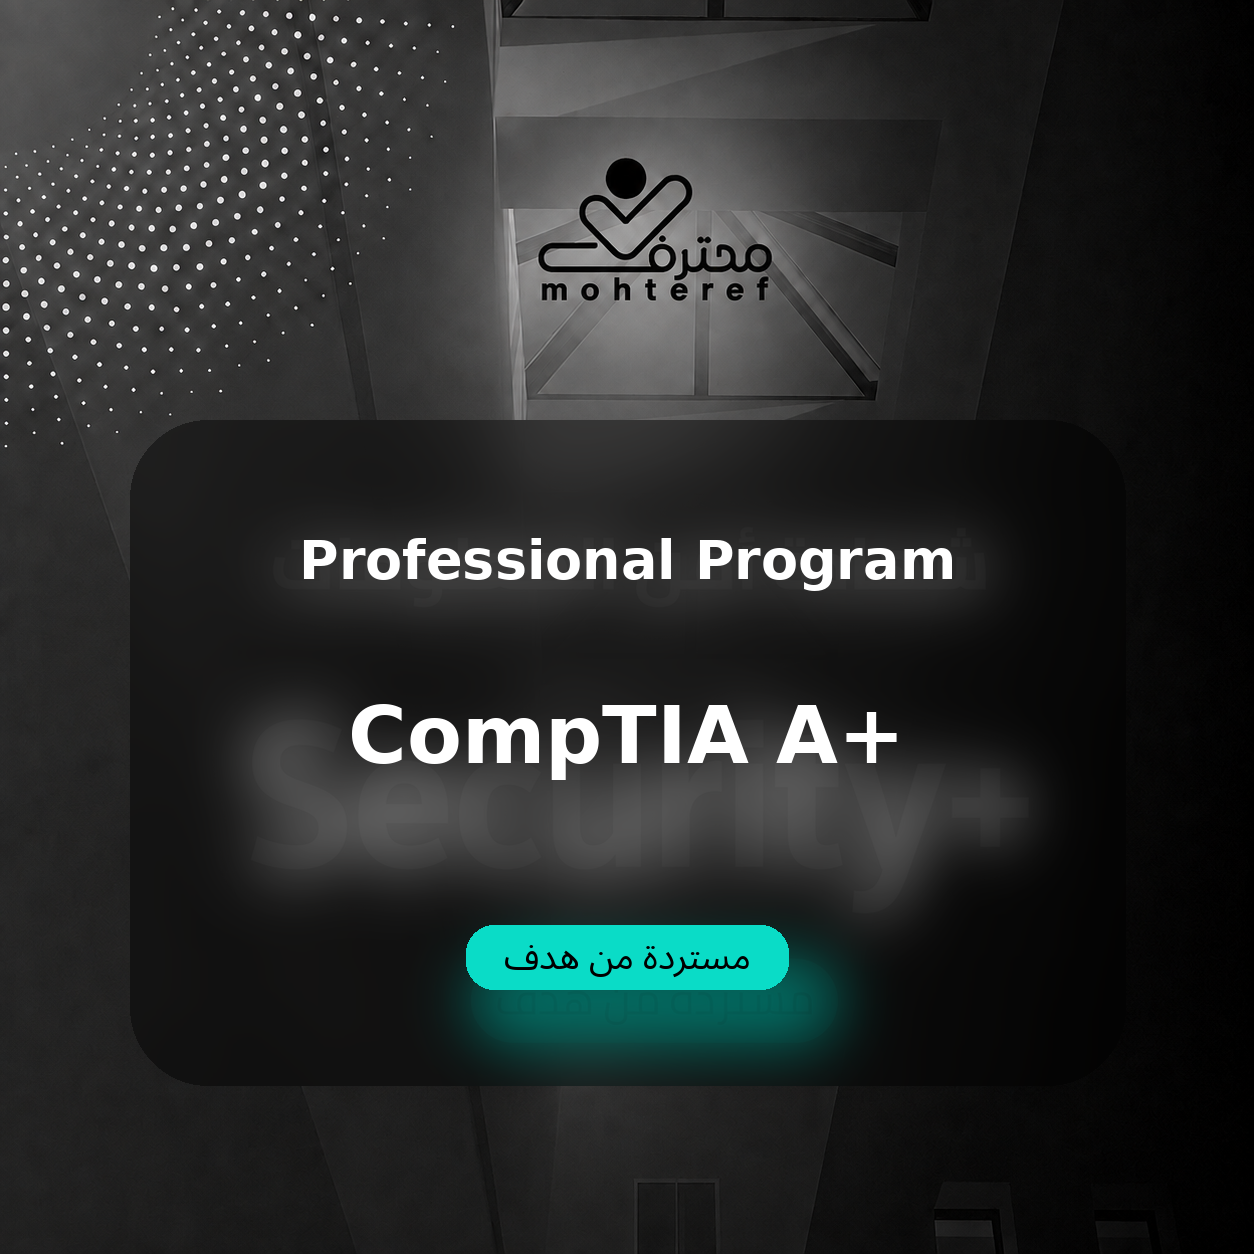
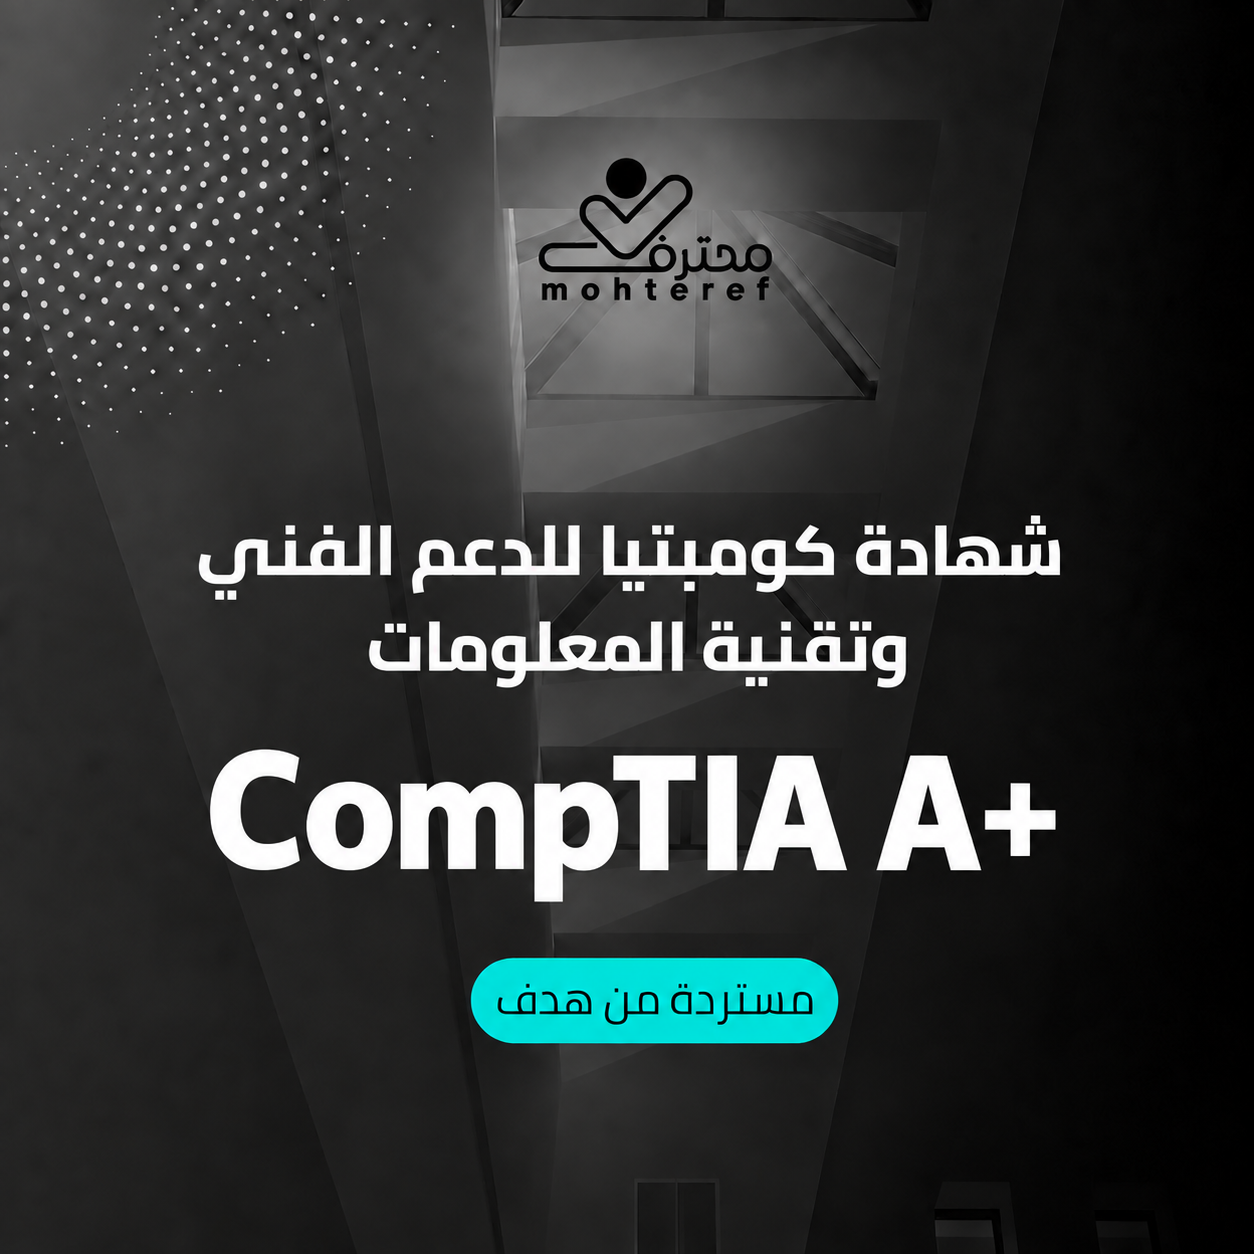
Add files via upload

Changed region(s): [[0.0933, 0.311, 0.8708, 0.8708]]

diff --git a/certificates.html b/certificates.html
@@ -324,7 +324,7 @@ footer{background:#07293c;color:#b8cbd2;padding:28px 0;text-align:center;font-si
       <div class="buttons"><button onclick="openCardWhatsApp(this)">التسجيل</button></div></div>
     </article></div><div class="empty" id="empty">لا توجد نتائج مطابقة للبحث.</div></div></main>
 <section class="professional-zone" id="professional-programs"><div class="container">
-  <div class="professional-head"><div><small>القسم الثاني</small><h2>البرامج المهنية</h2></div><div class="professional-count">4 برامج مهنية</div></div>
+  <div class="professional-head"><div><small>القسم الثاني</small><h2>البرامج المهنية</h2></div><div class="professional-count">3 برامج مهنية</div></div>
   <div class="professional-grid">
     <article class="professional-store-card">
       <div class="professional-store-cover">
@@ -356,7 +356,7 @@ footer{background:#07293c;color:#b8cbd2;padding:28px 0;text-align:center;font-si
       <div class="professional-store-body">
         <div class="professional-brand-row"><div class="thumb"><img src="assets/professional-network-plus.png" alt="CompTIA Network+"></div><b>CompTIA Network+</b></div>
         <div class="professional-tags"><span>برنامج مهني</span><span>الشبكات</span><span>عن بُعد</span></div>
-        <h3>CompTIA Network+</h3><p class="en">Network+</p>
+        <h3>شهادة كومبتيا للشبكات</h3><p class="en">CompTIA Network+</p>
         <div class="professional-support"><span>✓ مستردة من هدف</span><strong>معتمد</strong></div>
         <div class="professional-price"><span>سعر البرنامج</span><strong>999 ر.س</strong></div>
         <div class="professional-actions"><a class="details-pro" href="store.html">عرض التفاصيل</a><a class="register-pro" href="#" onclick="openMohterefWhatsApp('NETWORK+');return false;">التسجيل</a></div>
@@ -371,25 +371,10 @@ footer{background:#07293c;color:#b8cbd2;padding:28px 0;text-align:center;font-si
       <div class="professional-store-body">
         <div class="professional-brand-row"><div class="thumb"><img src="assets/professional-a-plus.png" alt="CompTIA A+"></div><b>CompTIA A+</b></div>
         <div class="professional-tags"><span>برنامج مهني</span><span>تقنية الحاسب</span><span>عن بُعد</span></div>
-        <h3>CompTIA A+</h3><p class="en">A+</p>
+        <h3>شهادة كومبتيا للدعم الفني وتقنية المعلومات</h3><p class="en">CompTIA A+</p>
         <div class="professional-support"><span>✓ مستردة من هدف</span><strong>معتمد</strong></div>
         <div class="professional-price"><span>سعر البرنامج</span><strong>999 ر.س</strong></div>
         <div class="professional-actions"><a class="details-pro" href="store.html">عرض التفاصيل</a><a class="register-pro" href="#" onclick="openMohterefWhatsApp('A+');return false;">التسجيل</a></div>
-      </div>
-    </article>
-
-    <article class="professional-store-card">
-      <div class="professional-store-cover">
-        <img src="assets/professional-ccna.png" alt="CCNA">
-        <span class="pro-badge">برنامج مهني</span>
-      </div>
-      <div class="professional-store-body">
-        <div class="professional-brand-row"><div class="thumb"><img src="assets/professional-ccna.png" alt="CCNA"></div><b>CCNA</b></div>
-        <div class="professional-tags"><span>برنامج مهني</span><span>الشبكات</span><span>عن بُعد</span></div>
-        <h3>CCNA</h3><p class="en">Cisco Certified Network Associate</p>
-        <div class="professional-support neutral"><span>برنامج مهني</span><strong>CCNA</strong></div>
-        <div class="professional-price"><span>سعر البرنامج</span><strong>999 ر.س</strong></div>
-        <div class="professional-actions"><a class="details-pro" href="store.html">عرض التفاصيل</a><a class="register-pro" href="#" onclick="openMohterefWhatsApp('CCNA');return false;">التسجيل</a></div>
       </div>
     </article>
   </div>
@@ -489,7 +474,6 @@ const MOHTEREF_PRODUCT_NAMES = {
   'SECURITY+':'شهادة أمن المعلومات Security+',
   'NETWORK+':'شهادة Network+',
   'A+':'شهادة CompTIA A+',
-  'CCNA':'برنامج CCNA',
   'CYSA+':'شهادة CompTIA CySA+',
   'OSHA':'برنامج OSHA',
   'NEBOSH-HSA':'برنامج NEBOSH HSA',
